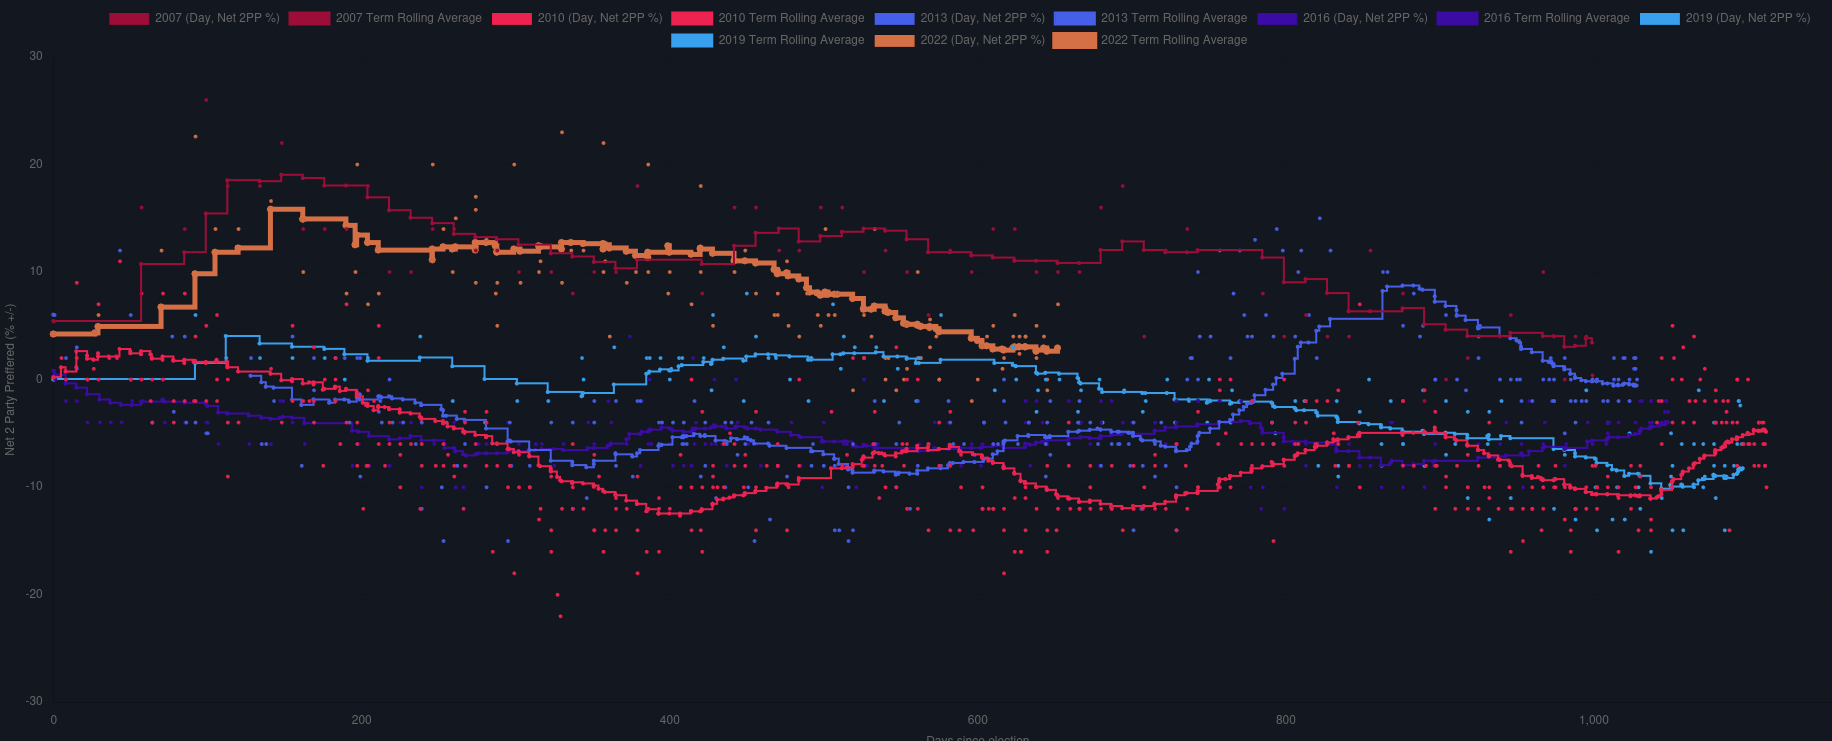
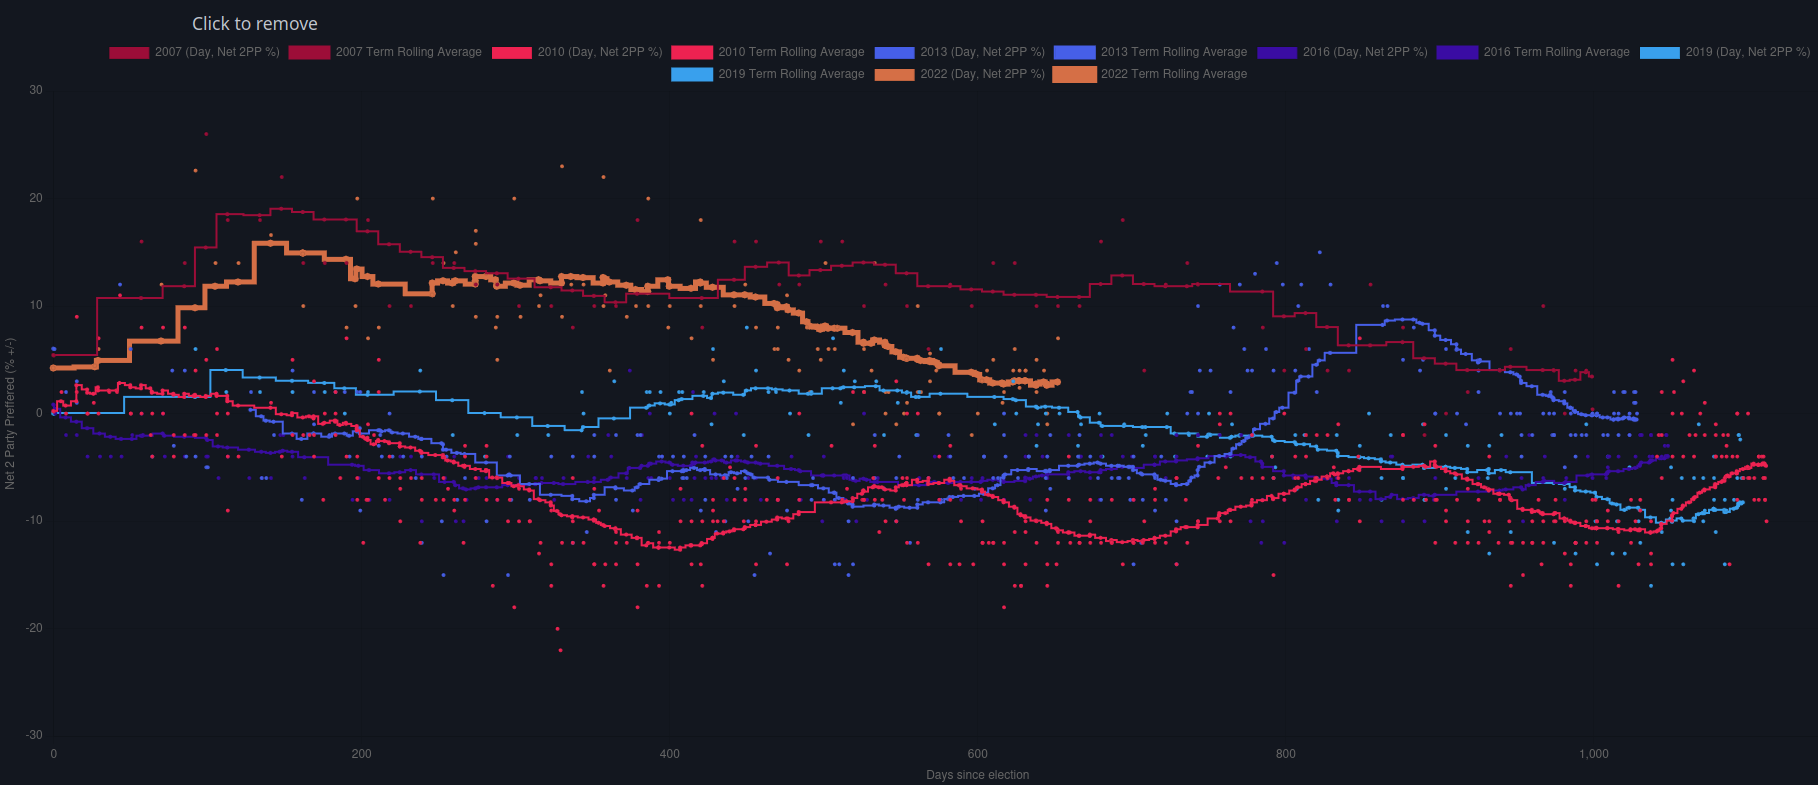
Additons and formatting changes

diff --git a/2PP Net/2PP.html b/2PP Net/2PP.html
@@ -21,6 +21,7 @@
 </header>
 <!-- ./ Header -->
 <body>
+    <small style="margin-left:10%"> Click to remove </small>
      <div style="height:750px" id="SmoothChart">
         <canvas  id="SmoothCircle">
         </canvas>
@@ -29,12 +30,12 @@
     <h6> Explanation </h6>
    Net 2 Party Preferred percentage is calculated by subtracting the opposition's 2 Party Preferred value from the current government's 2 Party Preferred value.<br>
    <footer><small>
-       For Example: <br> <i>
+       For Example: <blockquote> <i>
          Roy Mogran Poll 26 February – 3 March 2024 - ALP 53.5% vs L/NP 46.5% <br>
-         53.5% - 46.5% = 7% Therefore Albo has a net 2PP of + 7% in Latest Poll <br><br> </i>
-       Or.. <br><br> <i>
+         53.5% - 46.5% = 7% Therefore Albo has a net 2PP of + 7% in Latest Poll</i></blockquote>
+       Or..<blockquote> <i>
          Newspoll Poll 17 - 20 August 2017 - ALP 54% vs LNP 46% <br>
-         46% (LNP goverment @ time) - 54% = -8% Therefore ScoMo had a net 2PP of -8% at the time </i>
+         46% (LNP goverment @ time) - 54% = -8% Therefore ScoMo had a net 2PP of -8% at the time </i> </blockquote>
      </small></footer>
     </article>
 

diff --git a/2PP Net/2PPFunctions.js b/2PP Net/2PPFunctions.js
@@ -35,7 +35,7 @@ function createMean(pairsArray, label) {
         borderColor: Colors[label],
         backgroundColor: Colors[label],
         borderCapStyle: "round",
-        stepped: true,
+        stepped: "middle",
         borderWidth: 2,
     };
 
